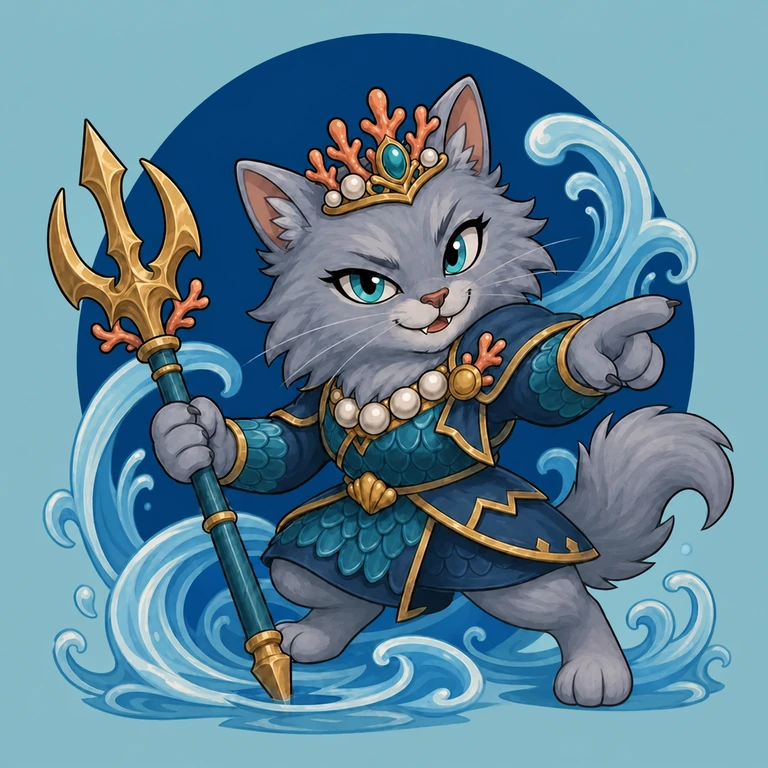
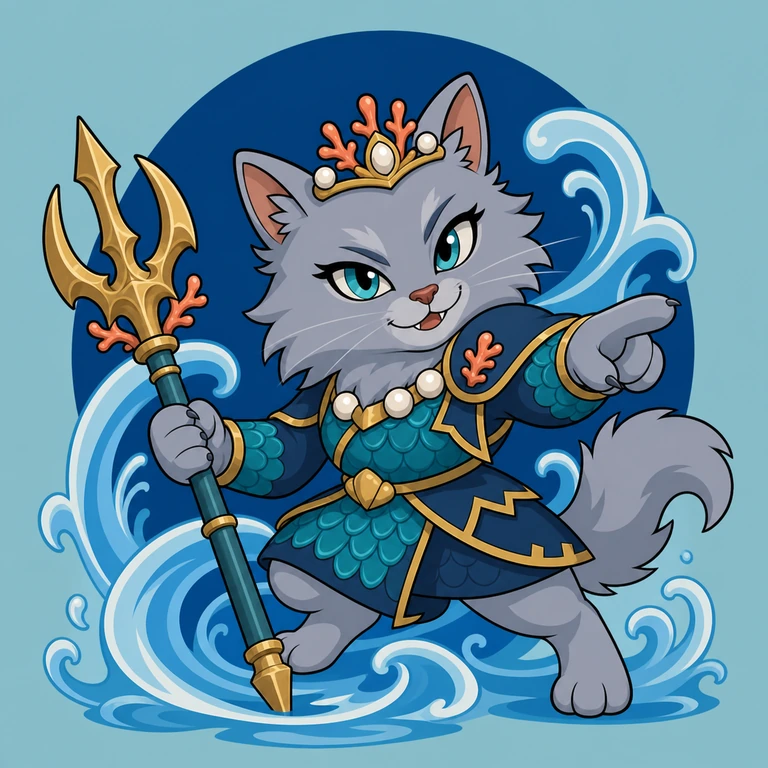
Unify card art rendering style

diff --git a/scripts/prepare-art.py b/scripts/prepare-art.py
@@ -48,8 +48,18 @@ def crop_grid(source: Path, names: list[str]) -> None:
 for _, (sheet, card_names) in SHEETS.items():
     crop_grid(sheet, card_names)
 
+dandelion_dash = Image.open(
+    GENERATED / "call_oP6u5ybyO5Z1BTsr5ai2KlPz.png"
+).convert("RGB")
+dandelion_dash.resize((768, 768), Image.Resampling.LANCZOS).save(
+    OUTPUT / "cards" / "dandelion-dash.webp",
+    "WEBP",
+    quality=91,
+    method=6,
+)
+
 empress_ebb = Image.open(
-    GENERATED / "call_mv9R2O8Q5i2XvlTm7ctl3RXD.png"
+    GENERATED / "call_t9NcLcjys8bruCare3ARX6Kg.png"
 ).convert("RGB")
 empress_ebb.resize((768, 768), Image.Resampling.LANCZOS).save(
     OUTPUT / "cards" / "empress-ebb.webp",

diff --git a/ART_DIRECTION.md b/ART_DIRECTION.md
@@ -11,11 +11,44 @@ packaged as WebP assets for the game.
 - Thinner, purposeful interior lines.
 - Flat matte color fills with one hard-edged cel-shadow shape per major form.
 - Large eyes, simple muzzle construction, readable brows, and expressive ears.
-- Four grouped digits on each visible paw; coherent limbs and prop contact.
+- Simple grouped paw shapes with no extra toe bumps; coherent limbs and prop
+  contact.
 - A distinct action silhouette for every character.
 - One large graphic background shape plus a few element-specific accents.
 - Faces and important props stay readable in the upper-central shallow crop used
   by cards in the player's hand.
+
+## Fixed rendering standard
+
+Every card uses the same production ceiling, regardless of rarity:
+
+- Outer contours are warm-black, bold, and visually consistent with
+  `sizzle-mittens.webp`; interior lines are approximately half that weight.
+- Each material receives one flat base color, no more than one hard-edged shadow
+  tone, and no more than one small flat highlight tone.
+- Fur is described with silhouette tufts and a few deliberate interior shapes,
+  never strand-by-strand rendering or soft modeled volume.
+- Metal, water, cloth, stone, and wood remain graphic shapes. Do not add
+  realistic reflections, grain overlays, soft gradients, bloom, or airbrushed
+  lighting.
+- Fine details must remain legible in a 180-pixel-wide card. If a bead, seam,
+  scale, stone, or pattern disappears at that size, simplify or remove it.
+- Legendary and epic cards earn spectacle through pose, silhouette, props, and
+  elemental effects—not through a different rendering style or extra polish.
+
+## Approved background formats
+
+Cards may use either format; both belong to the same collection:
+
+1. **Graphic emblem:** one large flat circle or simple heraldic shape plus a few
+   element-specific accents.
+2. **Simplified scene:** one shallow medieval location built from broad flat
+   shapes, with no more than three supporting environmental motifs.
+
+Both formats use the element palette, the fixed rendering standard above, and
+minimal depth. Do not use painterly scenery, realistic surface texture,
+atmospheric perspective, detailed masonry, or shadows that compete with the
+character. Background variety is allowed; rendering-pipeline variety is not.
 
 ## What to avoid
 
@@ -76,7 +109,7 @@ Use the current `sizzle-mittens.webp` as the card style reference and
 > outer contour, thinner purposeful inner lines, completely flat matte fills,
 > and one hard-edged cel-shadow shape per major form. Keep the face and both eyes
 > large in the upper-center, safe for a shallow landscape crop. Use coherent
-> feline anatomy and four grouped digits per visible paw. Create a distinct
+> feline anatomy and simple grouped paws with no extra toe bumps. Create a distinct
 > asymmetric action silhouette and a sparse, flat elemental background. No
 > texture, grain, distress, hatching, engraved lines, individual fur strands,
 > airbrush, gradients, glow, painterly rendering, tiny clutter, random
@@ -107,21 +140,24 @@ Append the card-specific action and prop brief below.
   large ribbon spiral.
 - Gale Groomer: fluffy white epic airship captain pointing from a wooden prow.
 - Kitewhisker: orange kitten bracing against one kite's pull on a rampart.
-- Dandelion Dash: compact scruffy brown herald-courier in a low three-point
-  starting crouch, wearing a plain quartered tabard and bycocket cap and
-  carrying one wax-sealed dispatch.
+- Dandelion Dash: compact warm-brown tabby herald-courier sprinting low in a
+  green-and-cream courier tunic, simple green cap, belt, and side satchel while
+  clutching one wax-sealed dispatch. Use only the cream badge, dandelion plants,
+  and airborne seeds as broad flat supporting shapes, with no castle or detailed
+  ground texture.
 - Puddle Pouncer: calico kitten leaping into one bold graphic splash.
 - Bubble Bengal: compact Bengal court bubble-seer perched low on broad haunches
   in a sleeveless blue surcoat, holding one bubble wand and one open pearl shell.
 - Moonpool Mouser: hooded navy cat crouched beside a circular moon pool.
 - Empress Ebb: compact, broad-pawed silver-blue Nebelung maritime sovereign with
-  an oversized feline head, wearing a coral-and-pearl crown, broad pearl collar,
-  and Byzantine-inspired navy-and-teal lamellar armour fitted to her short cat
-  stature. She plants one ceremonial trident, points her decree with the other
-  paw, and commands one stylized wave with a knowing one-fanged grin, raised
-  brow, cocked ear, and lively tail. Keep her pose diagonal and asymmetrical,
-  against a clean, uniform navy circle with no dark shadow markings, patterns,
-  or creature silhouettes.
+  an oversized feline head, wearing a simplified three-branch coral-and-pearl
+  crown, three-pearl collar, and broad-scale navy-and-teal lamellar surcoat
+  fitted to her short cat stature. She plants one ceremonial trident, points
+  her decree with the other paw, and commands one stylized wave with a knowing
+  one-fanged grin, raised brow, cocked ear, and lively tail. Keep her pose
+  diagonal and asymmetrical against a clean, uniform navy circle with no dark
+  shadow markings, patterns, or creature silhouettes. Her legendary status
+  comes from her silhouette and action, not extra rendering detail.
 - Wellwater Wisp: calico well-keeper in a sleeveless teal wool kirtle and rope
   belt, pulling one bucket with both bare forelegs visible.
 - Mizzle Motley: slender slate-blue castle fool and water-juggler in a
